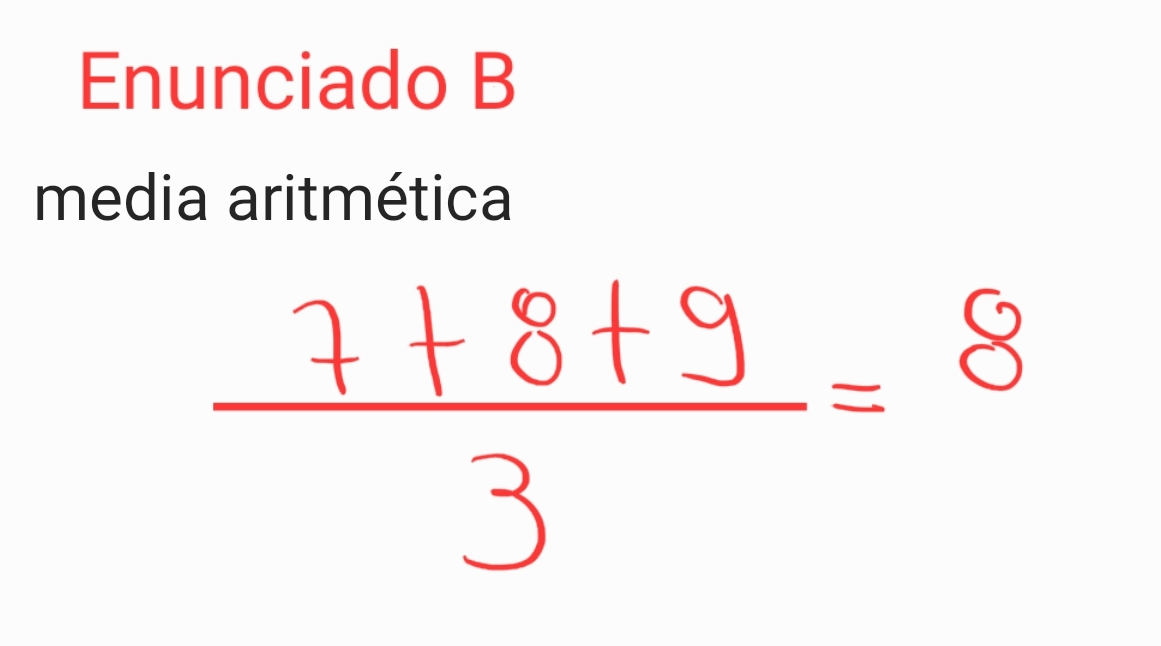
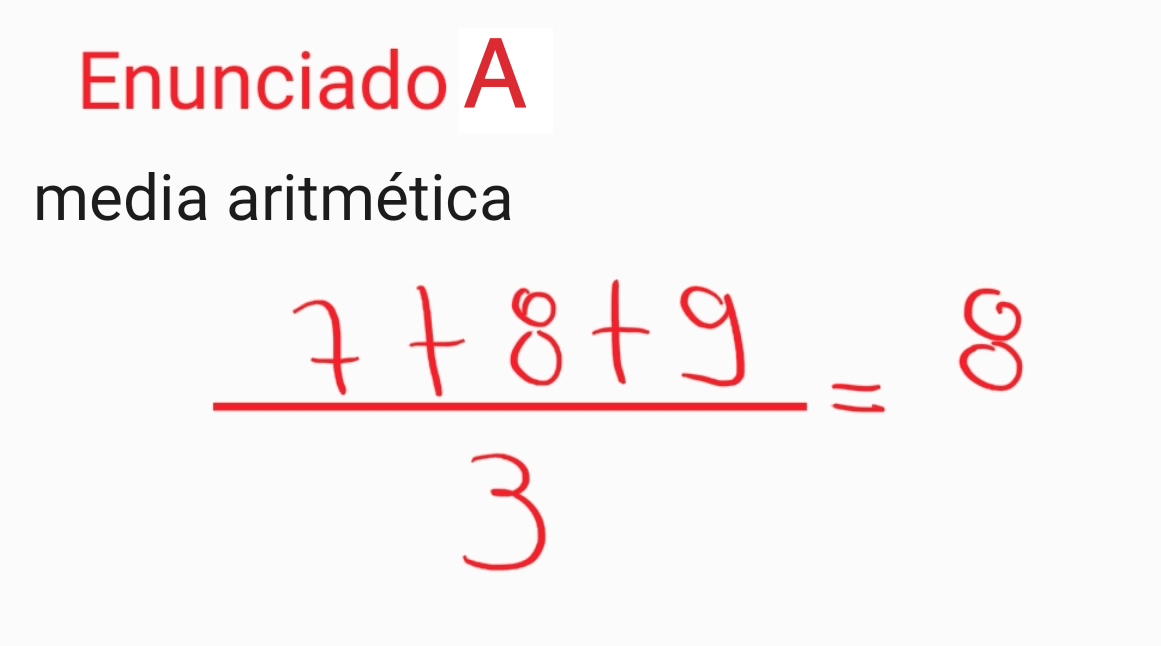
Resolvido atividades.

diff --git a/unidade_1/anotacoes_aula.md b/unidade_1/anotacoes_aula.md
@@ -81,7 +81,7 @@ Ler com **muita ATENÇÃO**, e em caso de dúvida me questionem.
 - resolveu, se der tempo, não poderia resolver da  melhor forma
 - não desista, nunca, jamais ... desistiu, volte a insistir
 
-    ![Nunca DEsista](imgs/AA_NuncaDesista.png "Nunca desista. Sapo resistindo bravamente para não ser engolido pela cegonha")
+    ![Nunca Desista](imgs/AA_NuncaDesista.png "Nunca desista. Sapo resistindo bravamente para não ser engolido pela cegonha")
 
 - divisão e conquista ... subdividir em rotinas
 - Etapas: Entrada / Processo / Saída
@@ -127,22 +127,20 @@ ATENÇÃO: lembrem de irem instalando o "Ambiente de Desenvolvimento Prático" .
 #### Enunciado A
 As vezes o enunciado pode ter "gorduras" ...
 
-    Era uma vez, uma pessoa que estava na praia. 
-    Esta pessoa conhecia um professor e este professor tinha um problema para resolver. 
-    O seu problema era que ele tinha que considerar uma situação que ele poderia ter 3 
-    notas de um aluno e com elas poderia calcular a média deste aluno.
-
-As vezes pode vir descrita de uma forma mais resumida
-
-    Um professor deseja calcular a média de um aluno. O professor tem o nome
-    e as 3 notas do aluno e a média deve ser calculada de forma aritmética.
+    Era uma vez, uma pessoa que estava na praia. Esta pessoa conhecia um professor e este professor tinha um problema para resolver. O seu problema era que ele tinha que considerar uma situação que ele poderia ter 3 notas de um aluno e com elas poderia calcular a média deste aluno.
 
 Ou ainda um enunciado "magrinho", mas as vezes se tem situações com falta de informações que não permitem solucionar o problema ... no caso, quantas notas para calcular a média?
 
-    Considerando que um professor tem notas de um aluno, calcule a média do aluno.
+    Considerando que um professor tem notas de um aluno, calcule média do aluno.
+
+Uma aceitável e se ter uma descrição sucinta, mas que tenha todas as informações necessárias para poder resolver o problema.
+
+    Um professor deseja calcular a média de um aluno. O professor tem o nome e as 3 notas do aluno e a média deve ser calculada de forma aritmética.
 
 Então vamos para primeira etapa:
 - entender o problema: Se pergunte, você consegue resolver este problema sem o uso do computador? Caso não consiga, bem provável é porque você não entendeu o enunciado ou falta informações, conhecimento, de como resolver o problema.
+
+![Calculo da média aritmética](imgs/AA_EnunciadoA.jpg "Calculo da média aritmética")
 
 Uma forma de ajudar a entender o problema é extrair do enunciado:
   - as entradas
@@ -151,10 +149,14 @@ Uma forma de ajudar a entender o problema é extrair do enunciado:
 
 **Então tente separar em:**
 
-__ "Enrolação" __ 
+__ Desnecessário __ 
 
     Um professor deseja 
     O professor tem o nome
+
+__ Não usado __ 
+
+    nome
 
 __ Entrada __: ter as 3 notas
 
@@ -169,7 +171,6 @@ __ Entrada __: ter as 3 notas
  __ Saída __: escrever a média
 
     escrever(média)
-
 
 Bom, depois destas etapas vamos para:
   - descrever solução formalmente
@@ -195,14 +196,19 @@ Mais um problema a ser resolvido ...
 Então vamos para primeira etapa:
 - entender o problema: faça o cálculo na "mão". Use os valores de testes (abaixo) para verificar se seu calculo está certo.
 
+![Calculo da área de um retângulo](imgs/AA_EnunciadoB.jpg "Calculo da área de um retângulo")
+
 **Então tente separar em:**
 
-__ "Enrolação" __ 
+__ Desnecessário __ 
 
     Modele a solução de um problema para
     de uma sala 
     Considere que as medidas estão expressas em metros.
 
+__ Não usado __ 
+
+    metros
 
 __ Entrada __: ter a largura e altura
 
@@ -218,7 +224,10 @@ __ Entrada __: ter a largura e altura
     escrever(area)
 
 
-  - descrever solução formalmente
+ __ descrever solução formalmente __ 
+
+    código em Java
+
 
   - testar
 
